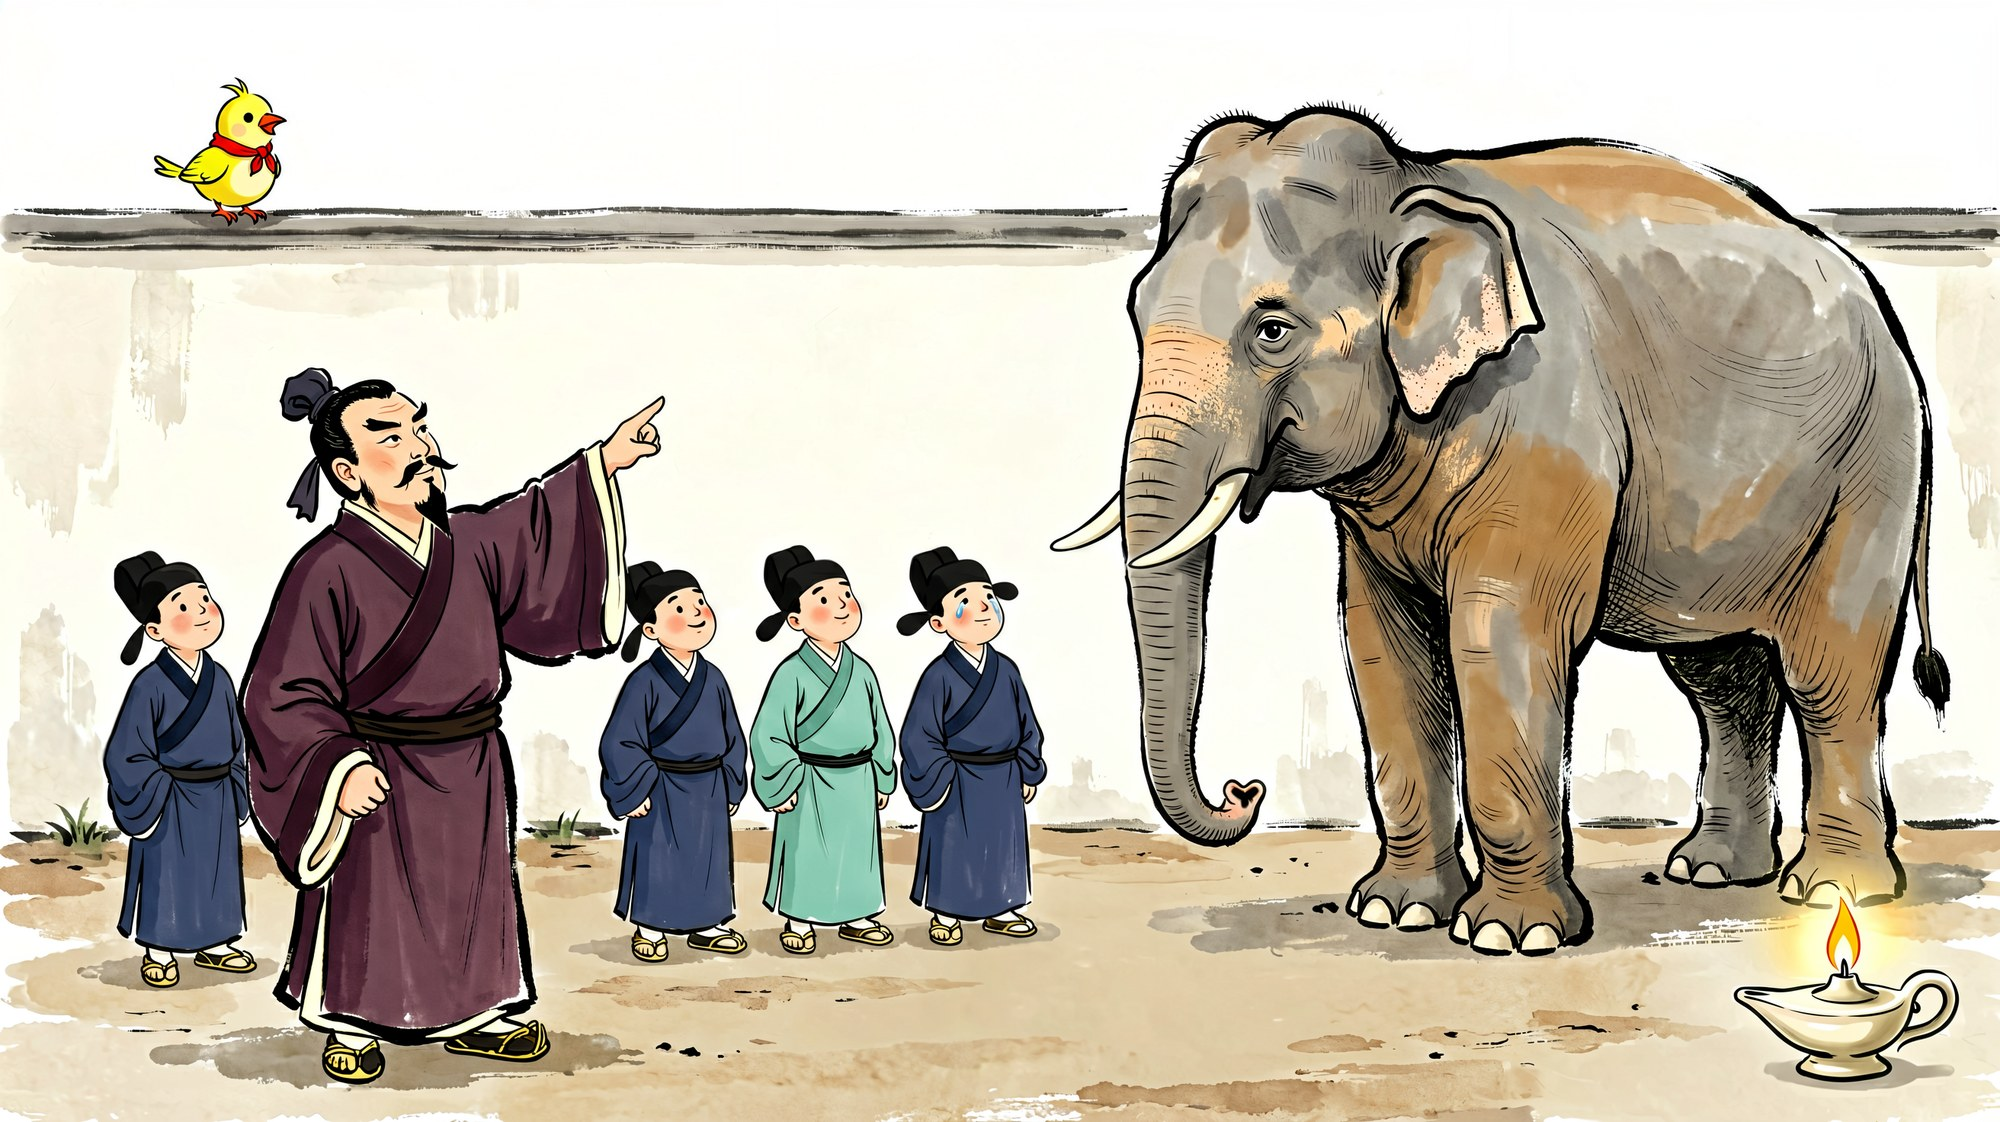
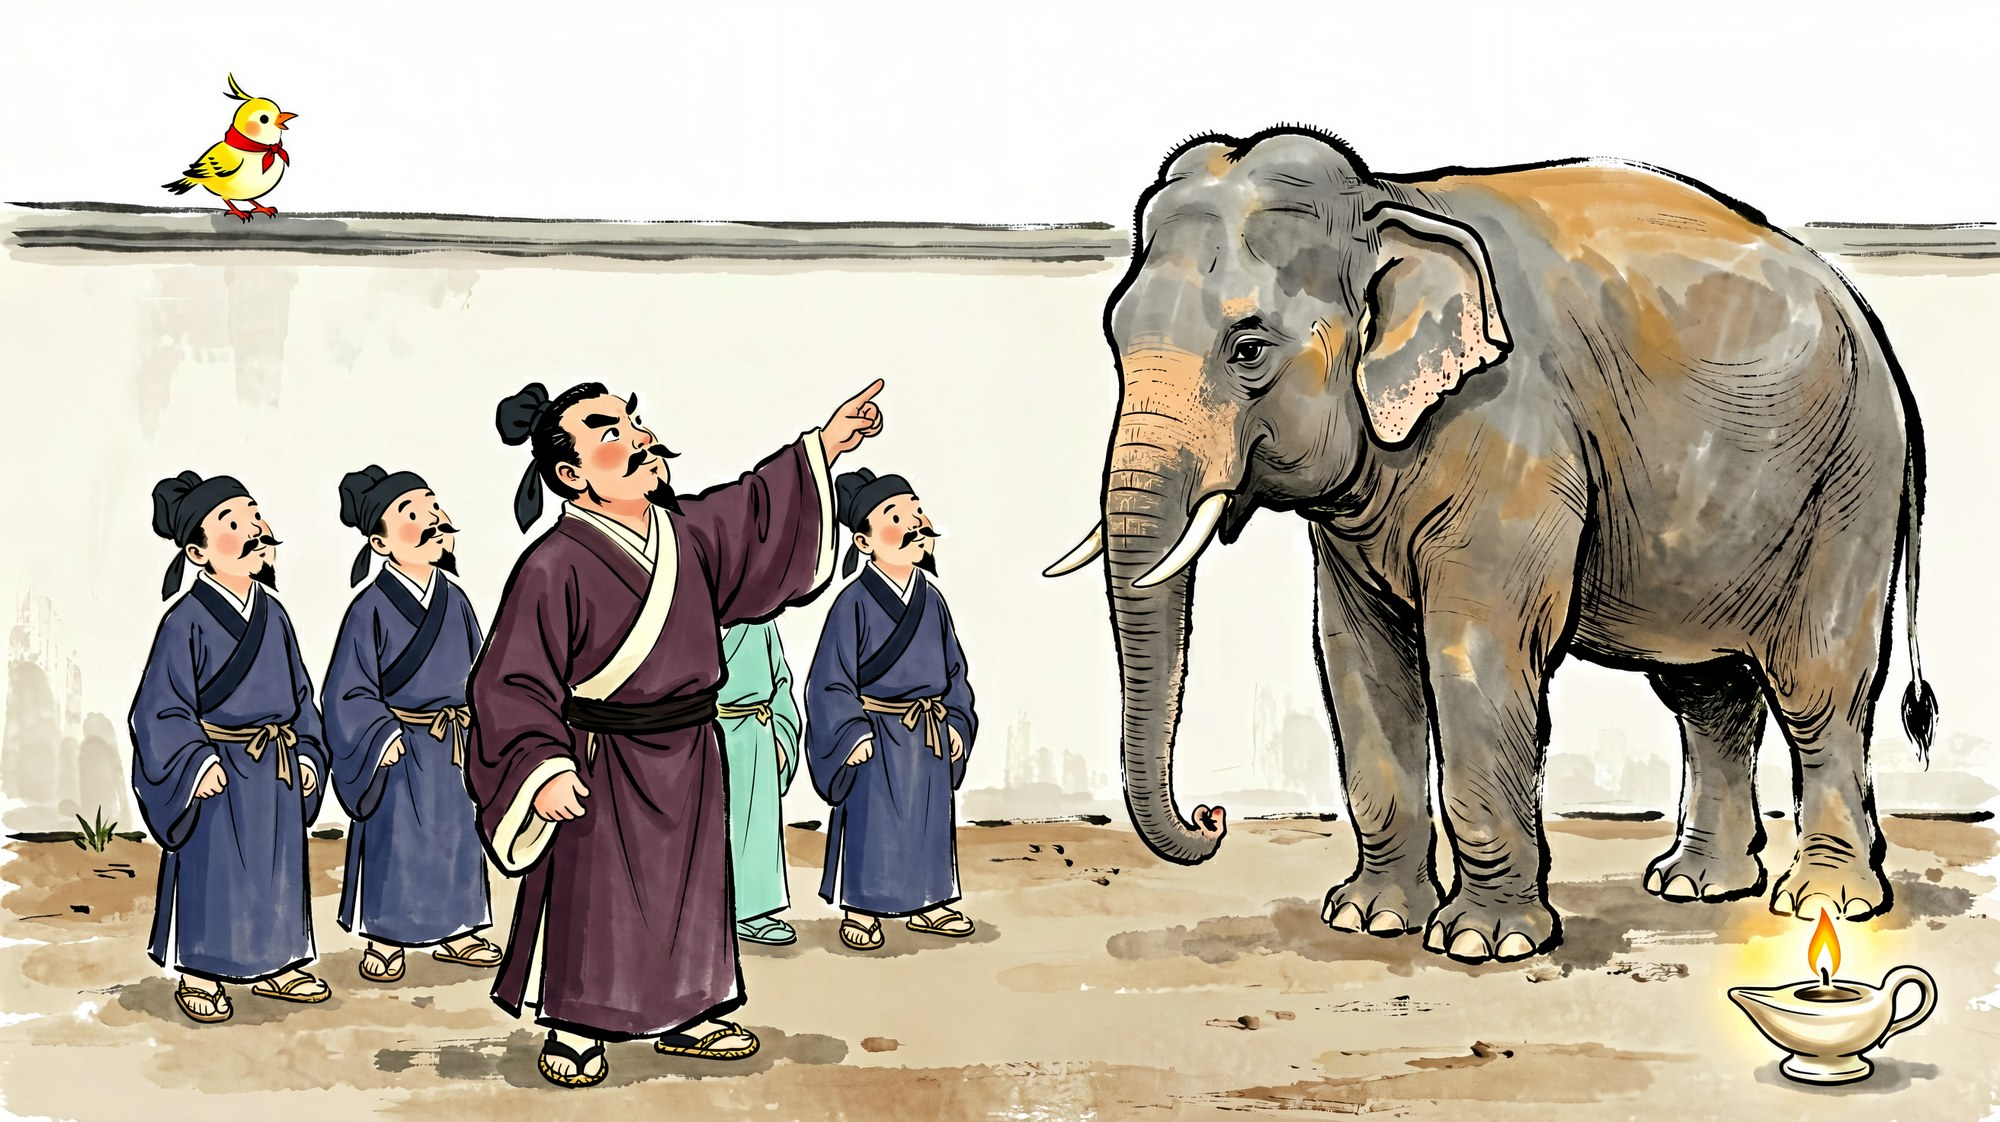
fix(caochong): 重出 P6（四官员误画成小孩→成年男性）与 P9（船舷水位记号缺失）
P9 的船舷记号线是全书核心道具，首版未画出，重出后质检确认存在；
P6 首版四位官员被画成四个小孩，重出后为四名成年男性。

diff --git a/s/caochong/index.html b/s/caochong/index.html
@@ -28,7 +28,7 @@
 <div class="slide" data-n="11"><img src="pages/11-weigh-stones.jpg" alt="称石头" decoding="async"><div class="cap"><h2><span class="n">11</span>称石头</h2></div><div class="notes"><div class="cue">动作提示：双手一摊，像揭晓答案</div><div class="say">第三步：把石头称一称——石头有多重，大象就有多重！</div></div></div>
 <div class="slide" data-n="12"><img src="pages/12-you-can-too.jpg" alt="你也能称大象" decoding="async"><div class="cap"><h2><span class="n">12</span>你也能称大象</h2></div><div class="notes"><div class="cue">动作提示：面向小朋友，摊开手邀请</div><div class="say">后来的人都在讲这件事。其实你也能称大象：拿个水盆、一只玩具船、几枚硬币，试试看！</div></div></div>
 </div>
-<div class="hint" id="hint">← → 翻页 · N 显示讲稿 · F 全屏 · M 配乐 · Esc 回书架 · 更新 2026-09-16 10:15</div>
+<div class="hint" id="hint">← → 翻页 · N 显示讲稿 · F 全屏 · M 配乐 · Esc 回书架 · 更新 2026-09-16 10:24</div>
 <div class="bgm on" id="bgm">♪ 配乐：开（按 M 关）</div>
 <dl class="dl" id="dl">资料下载：</dl>
 <script>

diff --git a/index.html b/index.html
@@ -71,7 +71,7 @@
   画面为水墨卡通风格，画面内不放任何文字；讲稿、出处与史实说明见各本的下载。<br>
   <b>史实分级</b>：正史原文 / 裴松之注等旁证 / 演义与后世形象（各本讲稿末尾有附表）。<br>
   <br>
-  出处在《三国志》及裴松之注、《世说新语》《韩非子》等文献；页脚时间 2026-09-16 10:15
+  出处在《三国志》及裴松之注、《世说新语》《韩非子》等文献；页脚时间 2026-09-16 10:24
 </footer>
 </div>
 </body>
